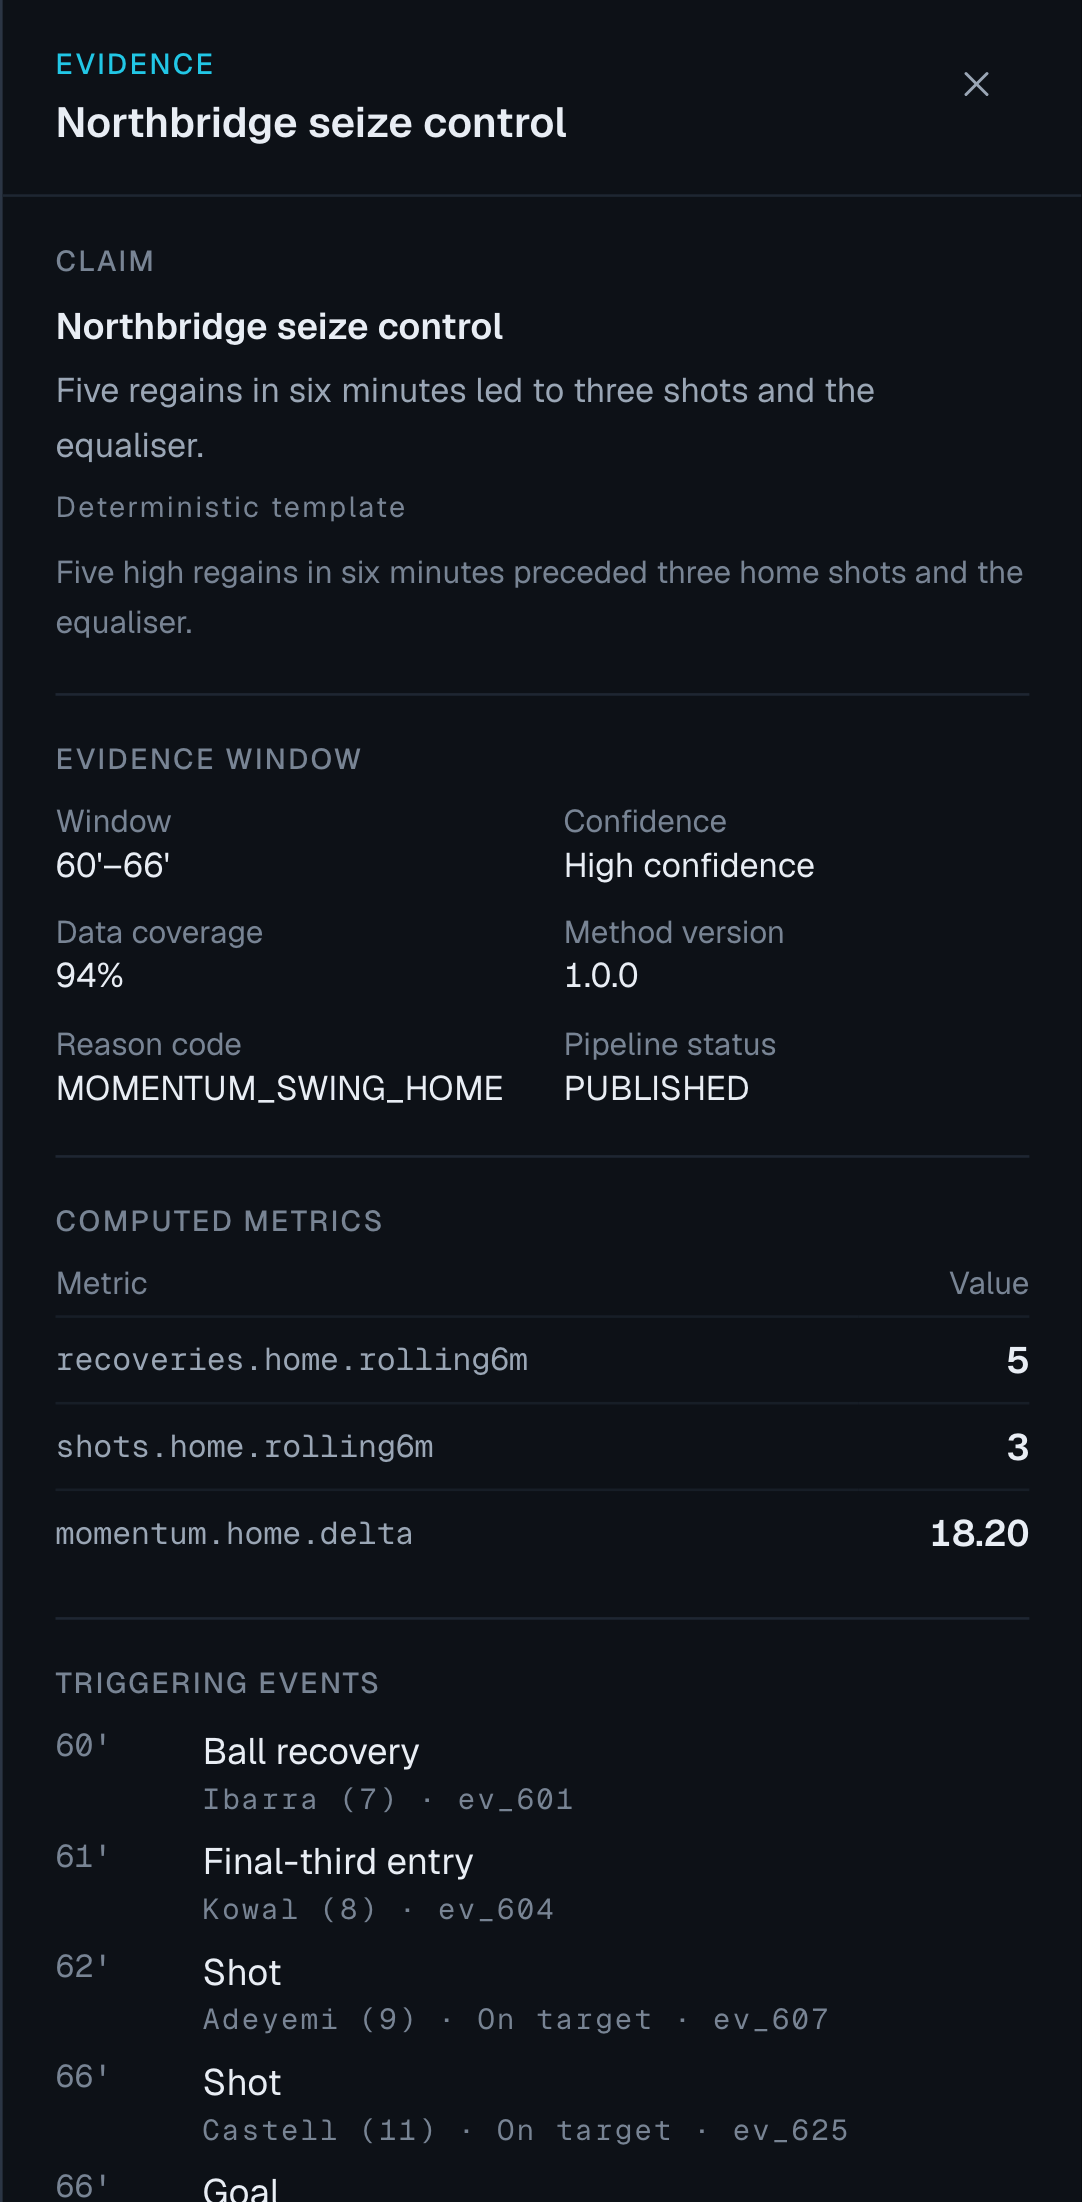
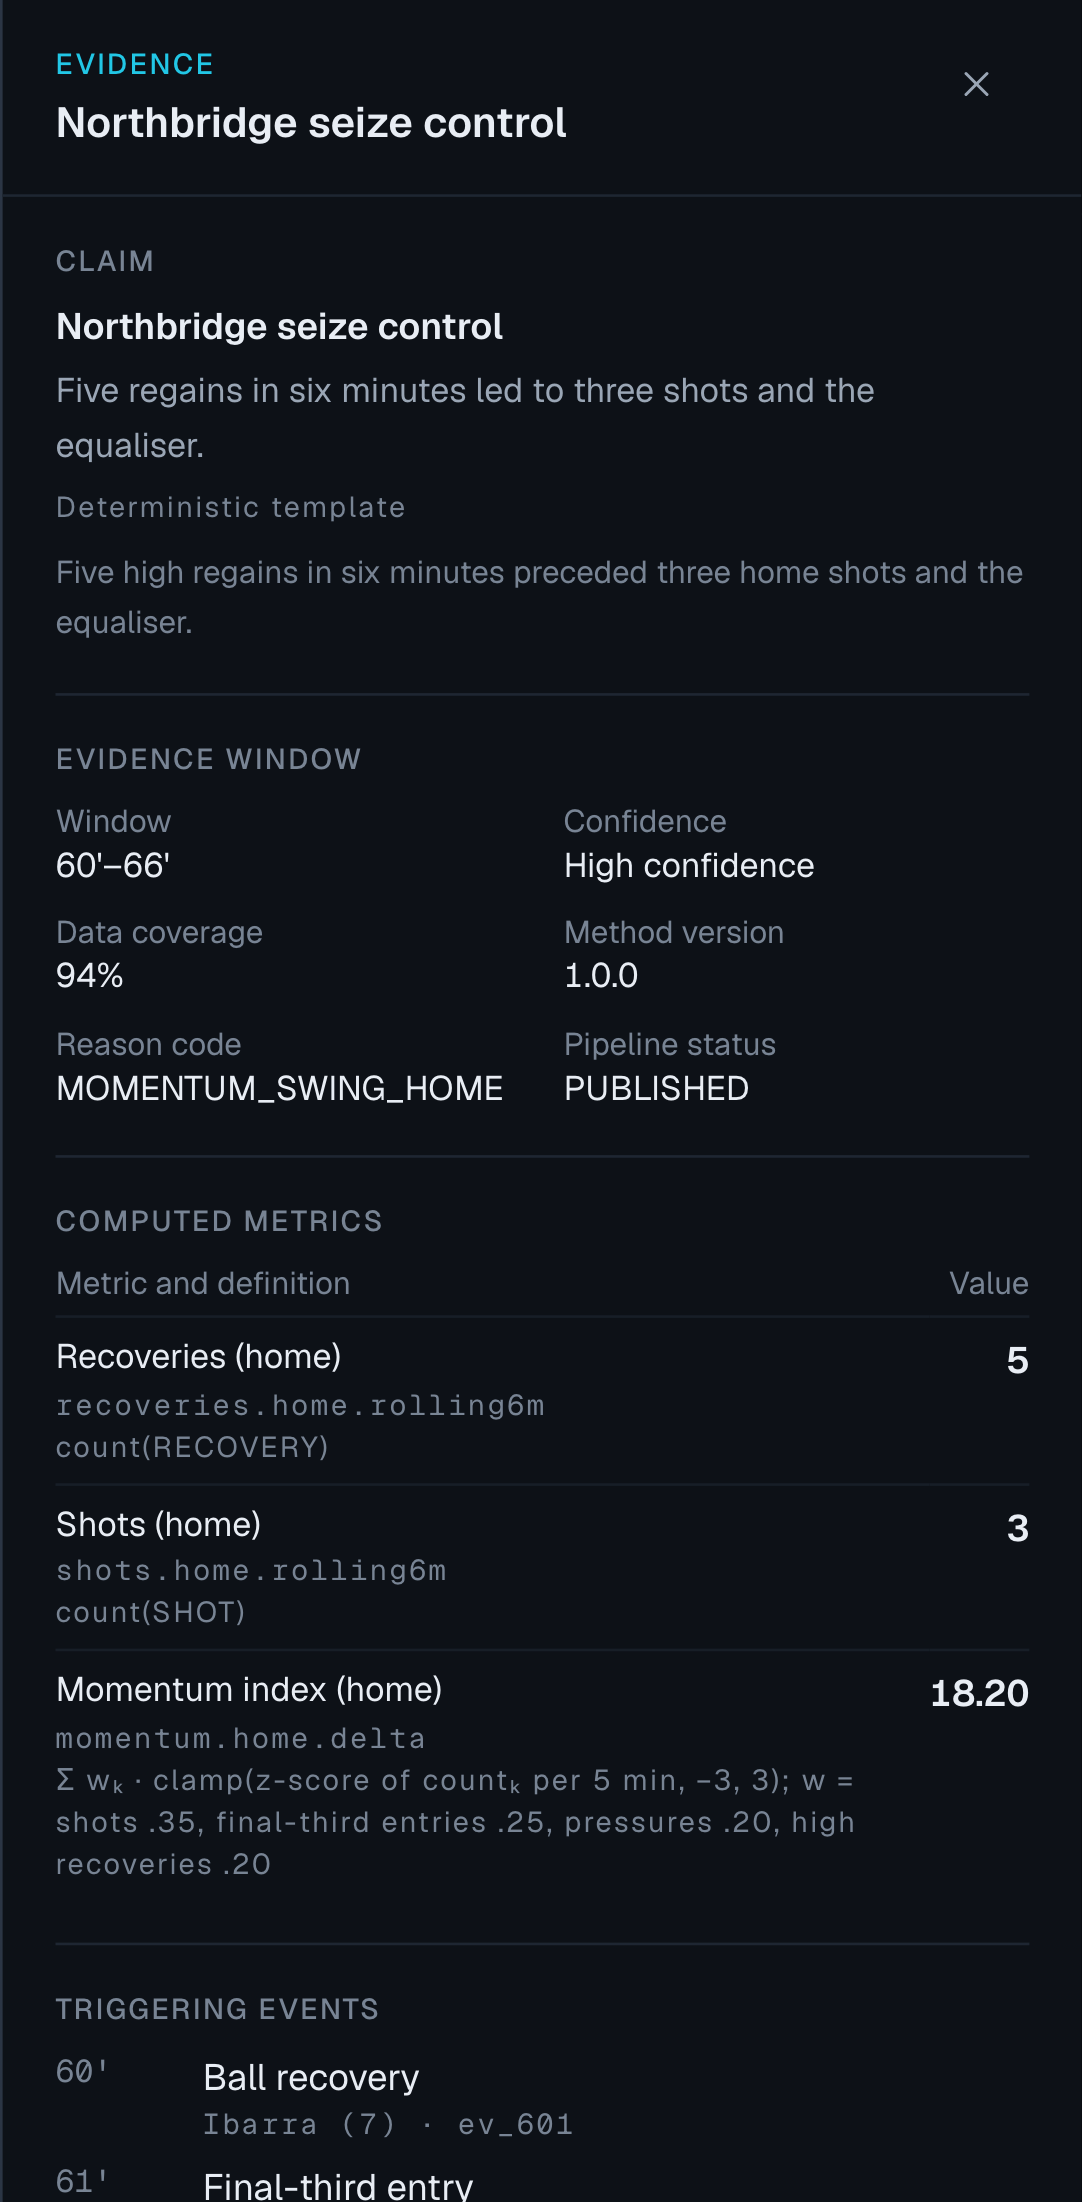
feat(web): add Nigerian Pidgin to the studio and log the judge flow

diff --git a/apps/web/src/features/studio/live-studio.spec.tsx b/apps/web/src/features/studio/live-studio.spec.tsx
@@ -150,6 +150,37 @@ describe('LiveStudio', () => {
     expect(scoreText()).toBe(before.score);
   });
 
+  it('offers Nigerian Pidgin as a fourth language', async () => {
+    const user = userEvent.setup();
+    await renderStudio(
+      baseRoutes({
+        'GET /insights': items([insight()]),
+        'GET /narratives': (url) =>
+          items(
+            url.searchParams.get('locale') === 'pcm-NG'
+              ? [
+                  narrative({
+                    narrativeId: 'nr_pcm',
+                    locale: 'pcm-NG',
+                    headline: 'Home team dey press well well',
+                  }),
+                ]
+              : [narrative()],
+          ),
+      }),
+    );
+    const languages = screen.getByRole('group', { name: 'Language' });
+    expect(within(languages).getAllByRole('radio')).toHaveLength(4);
+    await user.click(
+      within(languages).getByRole('radio', { name: 'Naijá (Pidgin) (PCM)' }),
+    );
+    expect(
+      (await screen.findByText('Home team dey press well well')).closest(
+        '[lang]',
+      ),
+    ).toHaveAttribute('lang', 'pcm-NG');
+  });
+
   it('drives the transport from server status, not local guesses', async () => {
     const user = userEvent.setup();
     const routes = baseRoutes({

diff --git a/apps/web-e2e/src/studio.spec.ts b/apps/web-e2e/src/studio.spec.ts
@@ -155,6 +155,26 @@ test.describe('live studio', () => {
     ).toBeVisible();
   });
 
+  test('offers four languages, including Pidgin, by keyboard at 390 px', async ({
+    page,
+  }) => {
+    await page.setViewportSize({ width: 390, height: 844 });
+    await openStudio(page);
+    const languages = page.getByRole('group', { name: 'Language' });
+    await expect(languages.getByRole('radio')).toHaveCount(4);
+    const scoreboard = page.getByRole('region', { name: 'Scoreboard' });
+    const before = (await scoreboard.textContent()) ?? '';
+    await languages.getByRole('radio', { name: /English/ }).focus();
+    for (let i = 0; i < 3; i += 1) await page.keyboard.press('ArrowRight');
+    await expect(
+      languages.getByRole('radio', { name: 'Naijá (Pidgin) (PCM)' }),
+    ).toBeChecked();
+    await expect(page.getByText('Northbridge don take control')).toBeVisible();
+    await expect(scoreboard).toHaveText(before);
+    await expectNoHorizontalOverflow(page);
+    await expectNoBlockingA11yViolations(page);
+  });
+
   test('has no serious or critical accessibility violations', async ({
     page,
   }) => {

diff --git a/apps/web/src/features/studio/store/reduce-hydration.ts b/apps/web/src/features/studio/store/reduce-hydration.ts
@@ -21,11 +21,25 @@ const fold = <T>(
     state,
   );
 
-/** The stream is fresher than a read model, so a known insight is kept. */
-const hydrateInsight: Step<Insight> = (state, insight) =>
-  state.insights.some((i) => i.insightId === insight.insightId)
-    ? {}
-    : reduceInsight(state, insight);
+const TERMINAL = new Set<Insight['status']>([
+  'PUBLISHED',
+  'FALLBACK',
+  'REJECTED',
+  'EXPIRED',
+]);
+
+/**
+ * A known insight keeps its streamed version unless the read model has moved
+ * it to a terminal status the stream did not announce (`insight.detected`
+ * carries the detection-time status only).
+ */
+const hydrateInsight: Step<Insight> = (state, insight) => {
+  const known = state.insights.find((i) => i.insightId === insight.insightId);
+  if (!known) return reduceInsight(state, insight);
+  return TERMINAL.has(insight.status) && !TERMINAL.has(known.status)
+    ? reduceInsight(state, insight)
+    : {};
+};
 
 /**
  * Merges REST read models into stream state. Every step is idempotent and

diff --git a/apps/web/src/features/studio/store/match-store.spec.ts b/apps/web/src/features/studio/store/match-store.spec.ts
@@ -283,6 +283,21 @@ describe('match store', () => {
     ]);
   });
 
+  it('takes a terminal status from the read model over the detection status', () => {
+    const store = createMatchStore(FX);
+    store
+      .getState()
+      .applyMessages([
+        message('insight.detected', insight({ status: 'DETECTED' }), 1),
+      ]);
+    store
+      .getState()
+      .applyHydration({ insights: [insight({ status: 'FALLBACK' })] });
+    expect(store.getState().insights.map((i) => i.status)).toEqual([
+      'FALLBACK',
+    ]);
+  });
+
   it('logs expiries separately from real retractions', () => {
     const store = createMatchStore(FX);
     store

diff --git a/apps/web-e2e/src/support/mock-session.ts b/apps/web-e2e/src/support/mock-session.ts
@@ -125,8 +125,8 @@ export const mockTraces = () => [
     fallbackReason: 'AI_ENABLED=false: deterministic templates only',
     gate: {
       source: 'TEMPLATE',
-      publishedNarratives: 9,
-      templateNarratives: 9,
+      publishedNarratives: 12,
+      templateNarratives: 12,
       overlayRevision: null,
       rejected: [],
     },
@@ -141,7 +141,7 @@ export const mockTraces = () => [
     fallbackReason: null,
     gate: {
       source: 'AGENT',
-      publishedNarratives: 8,
+      publishedNarratives: 12,
       templateNarratives: 1,
       overlayRevision: 2,
       rejected: [

diff --git a/apps/web-e2e/src/support/mock-stream.ts b/apps/web-e2e/src/support/mock-stream.ts
@@ -79,6 +79,7 @@ export const initialStreamMessages = (): StreamMessage[] => {
     envelope('insight.detected', mockInsight()),
     envelope('narrative.ready', NARRATIVES.broadcastEn),
     envelope('narrative.ready', NARRATIVES.broadcastFr),
+    envelope('narrative.ready', NARRATIVES.broadcastPcm),
     envelope('narrative.ready', NARRATIVES.casualEn),
     envelope('narrative.ready', NARRATIVES.analystEn),
     envelope('overlay.publish', mockCue()),

diff --git a/apps/web-e2e/src/support/mock-match.ts b/apps/web-e2e/src/support/mock-match.ts
@@ -156,6 +156,12 @@ export const NARRATIVES = {
     'Northbridge prend le contrôle',
     'Cinq récupérations en six minutes ont mené à trois tirs et à l’égalisation.',
   ),
+  broadcastPcm: narrative(
+    'BROADCAST',
+    'pcm-NG',
+    'Northbridge don take control',
+    'Dem collect ball five times for six minutes, shoot three times, and equalise.',
+  ),
   casualEn: narrative(
     'CASUAL',
     'en-GB',

diff --git a/apps/web/src/test/session-factories.ts b/apps/web/src/test/session-factories.ts
@@ -84,8 +84,8 @@ export const trace = (overrides: Partial<InsightTrace> = {}): InsightTrace => ({
   fallbackReason: 'AI_ENABLED=false: deterministic templates only',
   gate: {
     source: 'TEMPLATE',
-    publishedNarratives: 9,
-    templateNarratives: 9,
+    publishedNarratives: 12,
+    templateNarratives: 12,
     overlayRevision: null,
     rejected: [],
   },

diff --git a/apps/web/src/constants/match.ts b/apps/web/src/constants/match.ts
@@ -98,6 +98,7 @@ export const LOCALE_OPTIONS: readonly {
   { value: 'en-GB', label: 'English', short: 'EN' },
   { value: 'fr-FR', label: 'Français', short: 'FR' },
   { value: 'es-ES', label: 'Español', short: 'ES' },
+  { value: 'pcm-NG', label: 'Naijá (Pidgin)', short: 'PCM' },
 ];
 
 export const UNAVAILABLE_REASONS: Record<MetricUnavailableReason, string> = {

diff --git a/apps/web/src/features/recap/recap-observatory.spec.tsx b/apps/web/src/features/recap/recap-observatory.spec.tsx
@@ -81,7 +81,7 @@ describe('agent observatory', () => {
               fallbackReason: null,
               gate: {
                 source: 'AGENT',
-                publishedNarratives: 8,
+                publishedNarratives: 12,
                 templateNarratives: 1,
                 overlayRevision: 2,
                 rejected: [

diff --git a/docs/implementation-log.md b/docs/implementation-log.md
@@ -2,6 +2,32 @@
 
 Newest entries first. Each entry records what was delivered, the evidence, and what remains. Status labels: **Done**, **Partial**, **Blocked**.
 
+## 2026-10-21 — E2: Judge flow on replay sessions, recap and Agent Observatory (web)
+
+### Delivered
+
+| Area                                                                                                                                                                                                                                                                                                                                               | Status | Evidence                                                                                               |
+| -------------------------------------------------------------------------------------------------------------------------------------------------------------------------------------------------------------------------------------------------------------------------------------------------------------------------------------------------- | ------ | ------------------------------------------------------------------------------------------------------ |
+| Lobby from `GET /fixture-templates` (scenario label, seed, event count, events hash, synthetic badge, speed, Start) and recent sessions from `GET /replay-sessions`; Start calls `POST /fixtures/:templateId/sessions` and opens `/studio/{sessionId}`; loading, empty, error and 429 states. The old fixture start path is removed                | Done   | `lobby.spec.tsx`, e2e `lobby.spec.ts`                                                                  |
+| Studio transport driven by the server: status hydrated from `GET /replay` and `replay.status`; the 202 prediction shows as "awaiting" until the worker confirms (REST read-back after 4 s); 409/429/503 inline; forward-only seek bounded by the template `eventCount`; Restart creates a new session                                              | Done   | `live-studio.spec.tsx`, e2e `studio.spec.ts`                                                           |
+| Join mid-match: insights, narratives (current persona and locale), overlays, snapshot, events and replay status hydrate after the stream is accepted, then merge idempotently with the stream                                                                                                                                                      | Done   | `match-store.spec.ts` hydration cases, e2e "hydrates read models"                                      |
+| Reconnect fix: the client sat in Connecting/Reconnecting until the API's first message (15 s heartbeat without Last-Event-ID) plus up to 30 s backoff. It now goes Live when the server accepts the stream, backoff is capped at 5 s and stale is flagged at 25 s (above the heartbeat)                                                            | Done   | `match-stream-client.spec.ts` "recovers within the capped backoff after an API restart", `sse.spec.ts` |
+| Overlay on-air hold: a cue stays up for at least 4 s of real time after its match-clock window unless a newer cue replaces it or it is retracted; kind, priority, copy source (template revision 1, agent revision 2+) and "held" badges; en-GB broadcast fallback for other personas and locales; cue log separates Expired from Retracted        | Done   | `use-on-air-cue.spec.tsx` (fake timers)                                                                |
+| Recap `/studio/{id}/recap`: result, key moments with evidence ids and reason codes, final metrics, narratives for the selected persona and locale with en-GB fallback, JSON export; "Recap available at full time" before then (polled)                                                                                                            | Done   | `recap-observatory.spec.tsx`, e2e `judge-flow.spec.ts`                                                 |
+| Agent Observatory `/studio/{id}/observatory`: per insight status, publication (AGENT/TEMPLATE/PENDING), fallback reason, gate report with rejected items and issue codes, AgentRun table (agent, provider, deployment, prompt version, latency, retries, outcome). Providers are labelled plainly; template and mock are never presented as models | Done   | `recap-observatory.spec.tsx`                                                                           |
+| Evidence drawer: triggering events resolved from the store or, when outside the loaded timeline, from `GET /fixtures/:id/events` with bounded paging; metric labels and formulas                                                                                                                                                                   | Done   | `studio-lib.spec.ts`, `live-studio.spec.tsx`                                                           |
+| Four narrative locales including Nigerian Pidgin (`pcm-NG`) in the switcher, recap and tests; numbers unchanged across personas and locales                                                                                                                                                                                                        | Done   | `live-studio.spec.tsx`, e2e "offers four languages… at 390 px"                                         |
+| Judge quick-start e2e (lobby → start → live → evidence by keyboard → persona and locale → overlay → recap → observatory) with axe WCAG 2.2 AA and overflow checks on every screen, desktop and mobile                                                                                                                                              | Done   | `judge-flow.spec.ts`                                                                                   |
+| Manual run against the real local stack (API :3000 and worker :3001 from the main checkout, AI off) through a streaming CORS proxy on :3100 to a build on :4317                                                                                                                                                                                    | Done   | `docs/screenshots/real-*.png`                                                                          |
+
+### Not done or limits
+
+- Metric definitions are copied from the engine registry into `apps/web/src/constants/metrics.ts`, because the engine imports `node:crypto` and cannot be bundled for the browser. A `GET /metric-definitions` endpoint would remove the copy.
+- The session's template comes from the documented `<templateId>_s<n>` id format, matched against the template list. The fixture contract has no template link.
+- Trace minutes use the period from the recap once it exists; before full time the Observatory shows the period clock.
+- Observed on the real stack: 19 insights, all `TEMPLATE` with provider `template` (AI off). Agent, mock, Ollama and Foundry rendering is covered by unit and e2e tests with mocked data only.
+- Proposed `libs/contracts` additions: `FixtureTemplateSummary`, `ReplaySessionView`, `CreatedSession`, `RecapDocument`/`RecapMoment`/`RecapNarrative`, `InsightTrace`/`GateReport`/`GateRejection`/`InsightPublication`, a generic `ItemList<T>`, the events page envelope, `templateId` on session fixtures (or `GET /replay-sessions/:id`), and `period` on `InsightTrace`.
+
 ## 2026-10-21 — MQ-012: Nigerian Pidgin (pcm-NG) audience locale
 
 ### Delivered
